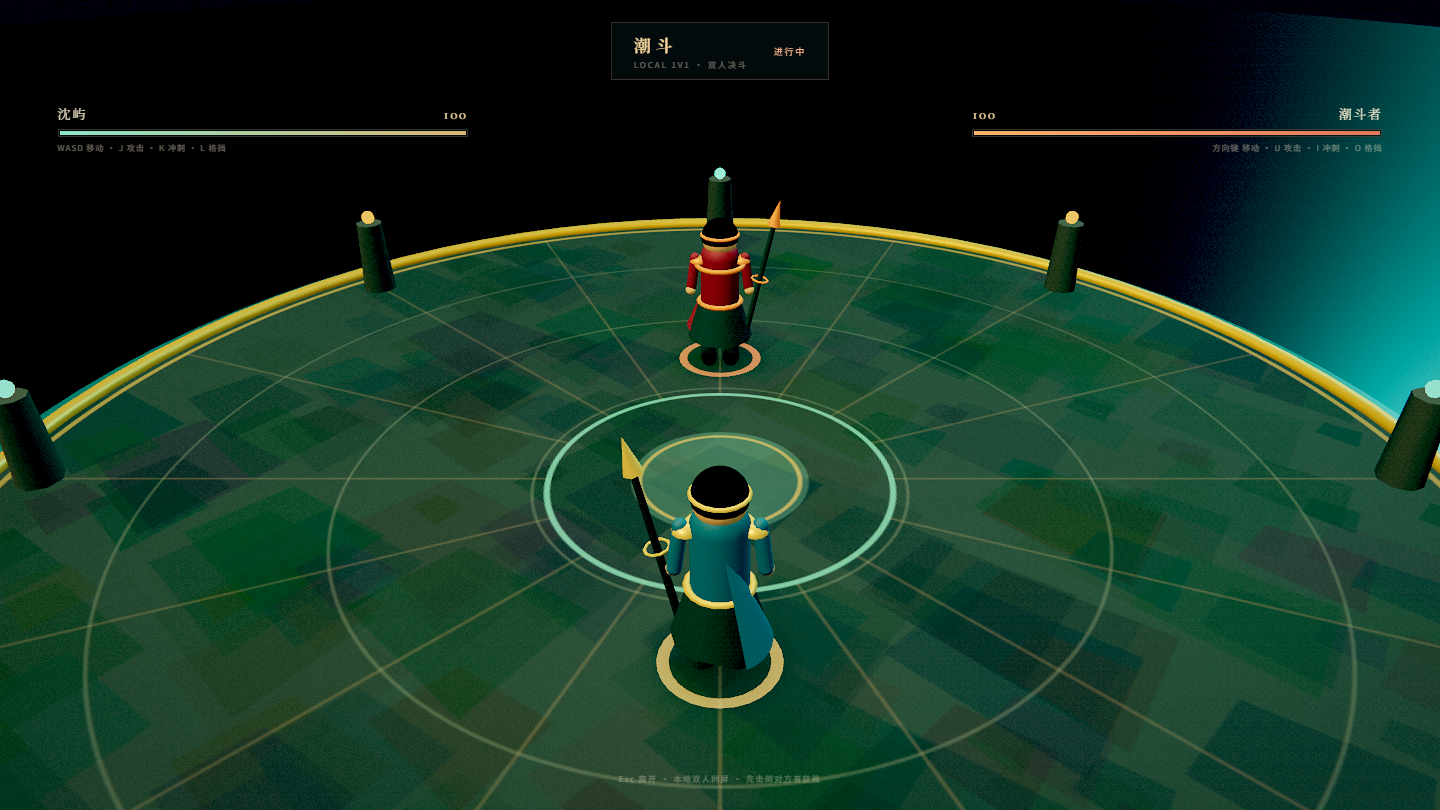
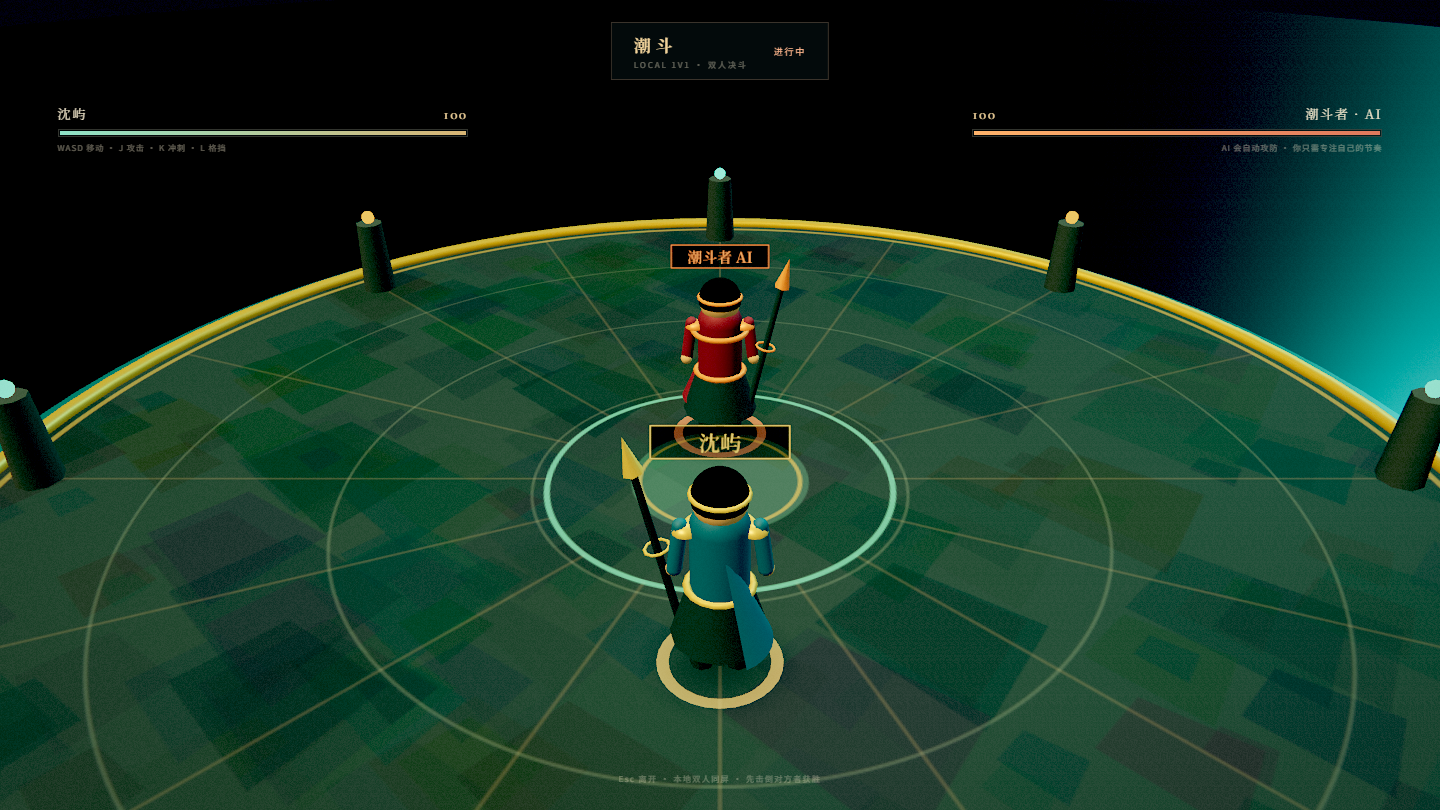
feat: duel labels, hit arcs and guard shields

diff --git a/src/gameplay/Duel.js b/src/gameplay/Duel.js
@@ -76,6 +76,30 @@ function shadowTexture() {
   return t;
 }
 
+function makeLabel(text, color = '#f0d29a') {
+  const c = document.createElement('canvas');
+  c.width = 256;
+  c.height = 64;
+  const ctx = c.getContext('2d');
+  ctx.clearRect(0, 0, 256, 64);
+  ctx.font = '600 28px "Noto Serif SC", serif';
+  ctx.textAlign = 'center';
+  ctx.textBaseline = 'middle';
+  ctx.fillStyle = 'rgba(5,17,19,.65)';
+  ctx.fillRect(36, 10, 184, 44);
+  ctx.strokeStyle = color;
+  ctx.lineWidth = 2;
+  ctx.strokeRect(36, 10, 184, 44);
+  ctx.fillStyle = color;
+  ctx.fillText(text, 128, 33);
+  const tex = new THREE.CanvasTexture(c);
+  tex.colorSpace = THREE.SRGBColorSpace;
+  const sprite = new THREE.Sprite(new THREE.SpriteMaterial({ map: tex, transparent: true, depthWrite: false, depthTest: true }));
+  sprite.scale.set(1.65, 0.41, 1);
+  sprite.position.y = 2.55;
+  return sprite;
+}
+
 function makeBlobShadow(radius = 0.8) {
   const m = new THREE.Mesh(
     new THREE.PlaneGeometry(radius * 2, radius * 2),
@@ -183,6 +207,7 @@ class Duelist {
     this.weapon.rotation.z = -0.22;
     this.group.add(this.weapon);
     this.group.add(makeBlobShadow(0.82));
+    this.group.add(makeLabel(name, accent));
     this.aura = new THREE.Mesh(
       new THREE.RingGeometry(0.5, 0.62, 28),
       new THREE.MeshBasicMaterial({ color: new THREE.Color(accent), transparent: true, opacity: 0.5, side: THREE.DoubleSide, blending: THREE.AdditiveBlending, depthWrite: false }),
@@ -191,6 +216,13 @@ class Duelist {
     this.aura.position.y = 0.045;
     this.group.add(this.aura);
     this.auraColor = accent;
+    this.shield = new THREE.Mesh(
+      new THREE.SphereGeometry(0.62, 16, 10),
+      new THREE.MeshBasicMaterial({ color: new THREE.Color(accent), transparent: true, opacity: 0.12, side: THREE.BackSide, blending: THREE.AdditiveBlending, depthWrite: false }),
+    );
+    this.shield.position.y = 1.25;
+    this.shield.visible = false;
+    this.group.add(this.shield);
     scene.add(this.group);
   }
 
@@ -223,6 +255,11 @@ class Duelist {
       this.walk += dt * 2;
     }
     this.blocking = !!(k && keys.has(k.block));
+    this.shield.visible = this.blocking;
+    if (this.blocking) {
+      this.shield.scale.setScalar(1 + Math.sin(this.walk * 2.2) * 0.035);
+      this.shield.material.opacity = 0.1 + Math.sin(this.walk * 2.4) * 0.025;
+    }
     const r = Math.hypot(this.x, this.z);
     if (r > 7.4) {
       this.x = (this.x / r) * 7.4;
@@ -356,7 +393,7 @@ export class Duel {
     top.position.set(0, 7, 0);
     this.scene.add(top);
     this.p1 = new Duelist(this.scene, { name: '沈屿', color: '#477985', accent: '#e6c27c', x: 0, z: 3.2, facing: 0 });
-    this.p2 = new Duelist(this.scene, { name: '潮斗者', color: '#8a4850', accent: '#ff9c6e', x: 0, z: -3.2, facing: 0 });
+    this.p2 = new Duelist(this.scene, { name: this.ai ? '潮斗者 AI' : '潮斗者', color: '#8a4850', accent: '#ff9c6e', x: 0, z: -3.2, facing: 0 });
     this.effects = [];
     this.p1.keys = P1;
     this.p2.keys = P2;
@@ -395,12 +432,30 @@ export class Duel {
     const p2Before = this.p2.hp;
     if (input.consumePressed(P1.attack)) this.p1.attack(this.p2);
     if (!this.ai && input.consumePressed(P2.attack)) this.p2.attack(this.p1);
-    if (this.p2.hp < p2Before) this.burst(this.p2.x, this.p2.z, '#e6c27c');
-    if (this.p1.hp < p1Before) this.burst(this.p1.x, this.p1.z, '#ff9c6e');
+    if (this.p2.hp < p2Before) {
+      this.burst(this.p2.x, this.p2.z, '#e6c27c');
+      this.shake = 0.2;
+    }
+    if (this.p1.hp < p1Before) {
+      this.burst(this.p1.x, this.p1.z, '#ff9c6e');
+      this.shake = 0.2;
+    }
     if (input.consumePressed(P1.dash)) this.p1.dash();
     if (!this.ai && input.consumePressed(P2.dash)) this.p2.dash();
     this.updateEffects(dt);
     this.game.ui.updateDuelHud(this, '');
+    if (this.shake > 0) {
+      this.shake *= Math.exp(-dt * 11);
+      this.camera.position.set(
+        (Math.random() - 0.5) * this.shake,
+        7.1 + (Math.random() - 0.5) * this.shake * 0.7,
+        10.4,
+      );
+      if (this.shake < 0.002) {
+        this.shake = 0;
+        this.camera.position.set(0, 7.1, 10.4);
+      }
+    }
     if (this.p1.hp <= 0 || this.p2.hp <= 0) {
       this.phase = 'result';
       this.result = this.p1.hp <= 0 ? '潮斗者获胜' : '沈屿获胜';
@@ -439,6 +494,15 @@ export class Duel {
     mesh.position.set(x, 1.0, z);
     this.scene.add(mesh);
     this.effects.push({ mesh, life: 0.36, max: 0.36 });
+    const slash = new THREE.Mesh(
+      new THREE.TorusGeometry(0.58, 0.045, 4, 18, Math.PI * 1.15),
+      new THREE.MeshBasicMaterial({ color: new THREE.Color(color), transparent: true, opacity: 0.9, side: THREE.DoubleSide, blending: THREE.AdditiveBlending, depthWrite: false }),
+    );
+    slash.position.set(x, 1.35, z);
+    slash.rotation.y = Math.random() * Math.PI;
+    slash.rotation.z = -0.7;
+    this.scene.add(slash);
+    this.effects.push({ mesh: slash, life: 0.28, max: 0.28 });
   }
 
   updateEffects(dt) {
